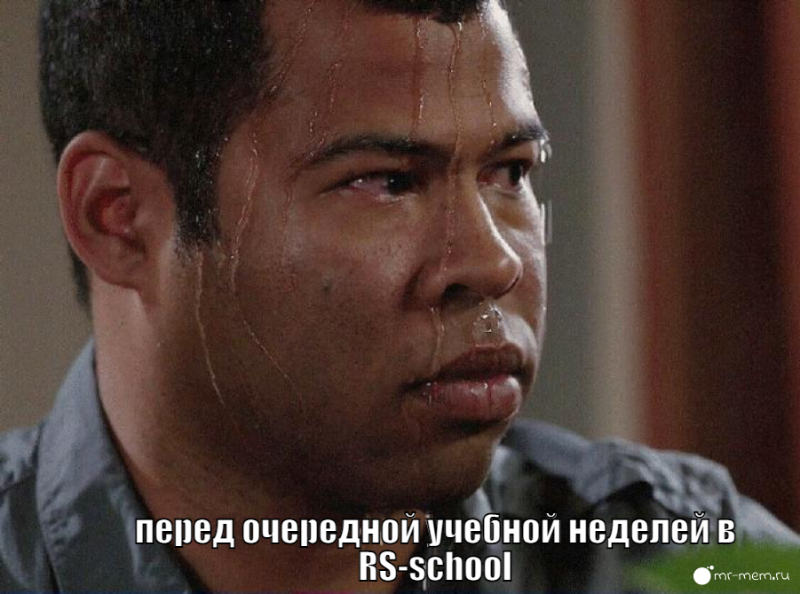
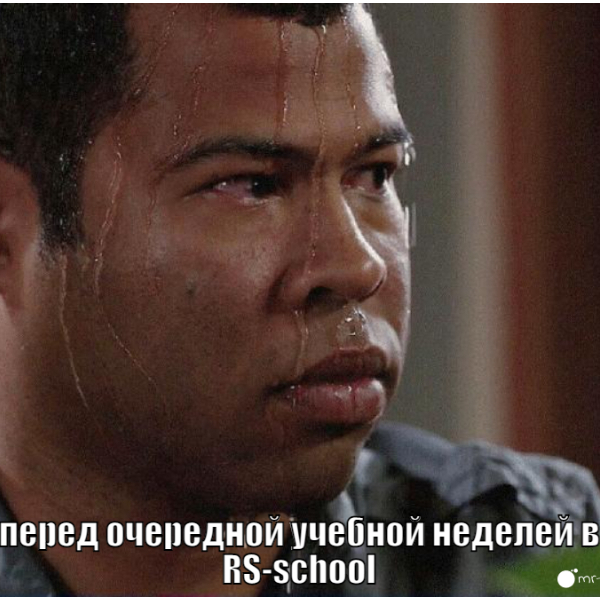
fix: replace slider images (Tue, May 17, 2022 09:19:46 PM)

diff --git a/cssMemSlider/css/style.css b/cssMemSlider/css/style.css
@@ -1,5 +1,5 @@
 body {
-	height: 100vh;
+	height: 115vh;
     width: 100%;
 	background: radial-gradient(circle at right bottom, #9E3802 0%, #5E2201 8%, #DE4F02 30%, #EB5303 40%, #C44602, transparent 120%);
     background-size: contain;
@@ -56,7 +56,7 @@ h1 {
 }
 
 .main {
-    padding-top: 10vh;
+    padding-top: 5vh;
     display: flex;
     justify-content: center;
 }
@@ -64,7 +64,7 @@ h1 {
 .slider-wrapper {
     display: flex;
     flex-direction: column;
-    width: 40vw;
+    width: 35vw;
     height: auto;
     overflow: hidden;
     border: #5E2201 solid 0.15rem;
@@ -86,15 +86,16 @@ h1 {
 
 .slide {
     width: 20%;
-    height: 50vh;
-    background-position: center;
+    height: 60vh;
+    background-position: top;
     background-repeat: no-repeat;
-    background-size: contain;
+    background-size: 100% 100%;
     transition: all 0.5s ease-in-out;
 }
 
 .mem-1 {
     background-image: url(../assets/img/Meme-1.jpg);
+    height: 100%;
 }
 
 .mem-2 {
@@ -110,7 +111,7 @@ h1 {
 }
 
 .mem-5 {
-    background-image: url(../assets/img/Meme-5.png);
+    background-image: url(../assets/img/Meme-5.jpg);
 }
 
 .slider-controls {
@@ -271,6 +272,10 @@ input {
     
     h1 {
         font-size: 3em;
+    }
+
+    .main {
+        padding-top: 8vh;
     }
 
     .header .mem-around {

diff --git a/cssMemSlider/index.html b/cssMemSlider/index.html
@@ -34,7 +34,7 @@
             <div class="slider-controls">
                 <div class="slider-quotes">
                     <div class="quote-wrapper">
-                        <p class="quote">Cross-check в разгаре</p>
+                        <p class="quote">Реклама очередных курсов</p>
                         <p class="quote">Когда читаешь новое ТЗ</p>
                         <p class="quote">Подыши 5 минут и за cross-check</p>
                         <p class="quote">Сколько там до дэдлайна?</p>
